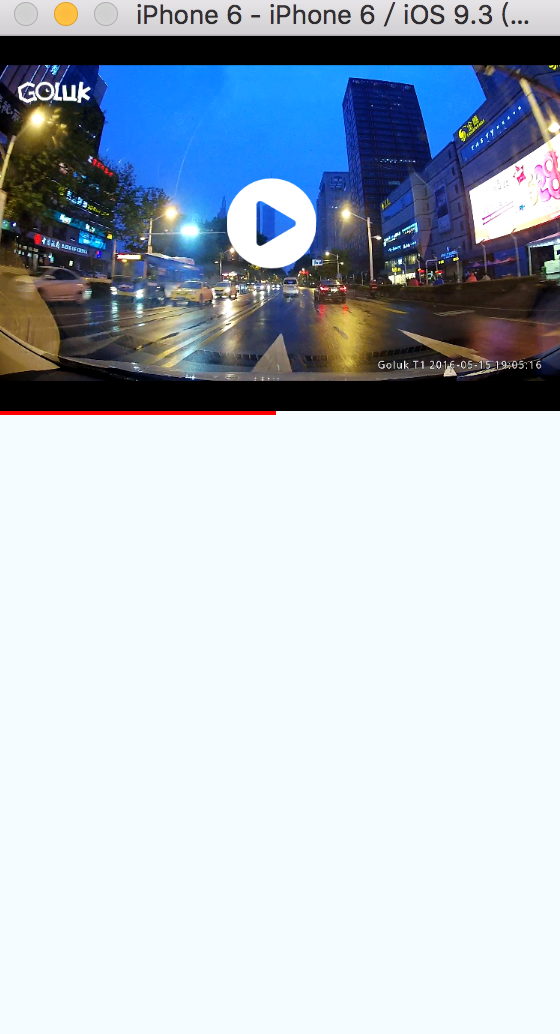
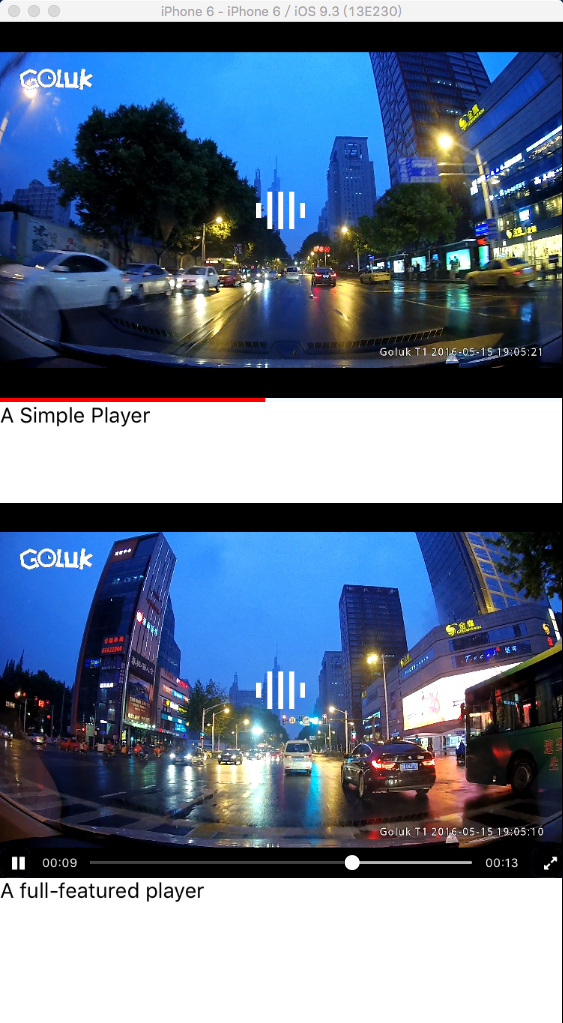
丰富播放器的例子，增加一个全功能播放器

diff --git a/Examples/vlcplayer/index.ios.js b/Examples/vlcplayer/index.ios.js
@@ -1,7 +1,8 @@
 import React, { Component } from 'react';
 import {
  AppRegistry,
- View
+ View,
+ Text
 } from 'react-native';
 import SimpleVideo  from './SimpleVideo.js';
 import Video  from './Video.js';
@@ -12,14 +13,13 @@ class vlcplayer extends Component {
 
   render() {
     const uri = 'http://cdn.goluk.cn/video/t1_2.mp4';
-    let simplevideo = (<SimpleVideo uri={uri} buttonSize={50} />);
     return (
       <View>
-
-      {simplevideo}
+      <SimpleVideo uri={uri} buttonSize={50} />
+      <Text>A Simple Player</Text>
       <View style={{marginTop:50}} />
       <Video uri={uri} />
-
+      <Text>A full-featured player</Text>
       </View>
     );
   }

diff --git a/README.md b/README.md
@@ -5,7 +5,8 @@ A `<VLCPlayer>` component for react-native
 
 VLCPlayer 支持各种格式(mp4,m3u8,flv,mov,rtsp,rtmp,etc.)，具体参看[vlc wiki][3]
 
-![暂停](1.png)
+![播放器例子](1.png)
+![全屏模式](2.png)
 
 ### Add it to your project
 
@@ -13,14 +14,16 @@ Run `npm install react-native-vlcplayer --save`
 
 #### iOS
 
-Install [rnpm](https://github.com/rnpm/rnpm) and run `rnpm link react-native-vlcplayer`
+- Install [rnpm](https://github.com/rnpm/rnpm) and run `rnpm link react-native-vlcplayer`
+
+- 安装`MobileVLCKit.framework`,在[nightlies.videolan.org/build/ios/](nightlies.videolan.org/build/ios/) 下载最新版，解压后在你的工程里面引入`MobileVLCKit.framework`，并且添加 framework search path
 
 
 
 ## Usage
-- 安装`MobileVLCKit.framework`,在[nightlies.videolan.org/build/ios/](nightlies.videolan.org/build/ios/) 下载最新版，解压后在你的工程里面引入`MobileVLCKit.framework`，并且添加 framework search path
-- 使用vlcplayer  
-这是一个极其简单的VLC播放器，默认是不带控制条和进度条，但是完全可以通过回调实现自己需要的样式的播放器，参看例子[Examples vlcplayer][2]
+
+
+这是一个极其简单的VLC播放器，默认是不带控制条和进度条，但是完全可以通过回调实现自己需要的样式的播放器，参看例子[Examples vlcplayer][2]，包括一个简单播放器和一个全功能播放器。
 
 ```
 <VLCPlayer
@@ -55,12 +58,49 @@ this.refs['vlcplayer'].seek(1); //单位是 0~1 的百分比
 - 同时需要安装`ART`   
 参考[https://github.com/oblador/react-native-vector-icons][4]
 
+可以根据自己的情况使用下面的例子，自己DIY播放器  
+- `<SimpleVideo />` 一个简单的播放器  
+- `<Video />` 一个全功能的播放器
+
+```
+import React, { Component } from 'react';
+import {
+ AppRegistry,
+ View,
+ Text
+} from 'react-native';
+import SimpleVideo  from './SimpleVideo.js';
+import Video  from './Video.js';
+
+
+
+class vlcplayer extends Component {
+
+  render() {
+    const uri = 'http://cdn.goluk.cn/video/t1_2.mp4';
+    return (
+      <View>
+      <SimpleVideo uri={uri} buttonSize={50} />
+      <Text>A Simple Player</Text>
+      <View style={{marginTop:50}} />
+      <Video uri={uri} />
+      <Text>A full-featured player</Text>
+      </View>
+    );
+  }
+}
+
+AppRegistry.registerComponent('vlcplayer', () => vlcplayer);
+
+```
+
 
 ## TODOS
 
-- [ ] Add support for Android
-- [ ] Add support for snapshot
-- [ ] Add support for record
+- [] Add support for Android
+- [] Add support for snapshot
+- [] Add support for record
+- [x] Add support for A full-featured player
 
 
 ## 加入ReactNative讨论组  
